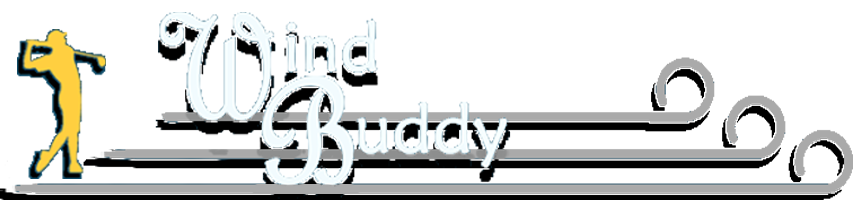
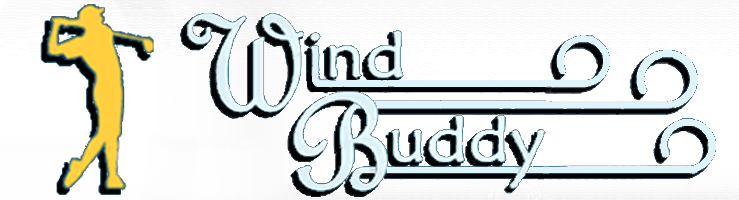
Add files via upload

diff --git a/styles.css b/styles.css
@@ -54,9 +54,9 @@ body{
 }
 
 .header-bar {
-	width: 61%;
+	width: 100%;
 	max-height: 10vh;
-	display: flex;
+	display: -webkit-box;
 	flex-direction: row;
 	justify-content: end;
 	margin-bottom: 2.0vh;
@@ -64,22 +64,17 @@ body{
 }
 
 .img {
-	display:flex;
-	width: 75%;
-	justify-content:end;
-	align-items:center;
+	max-height: -webkit-fill-available;
+	justify-self: center;
 }
 
-.hdrBarImg{
-	height:150%;
-}
 
 
 /* AUTH BUTTONS (HEADER) */
 .authContainer {
 	position: relative;
 	top:0px;
-	left: 0.625rem;
+	left: -3.975rem;
 	display:flex;
 	width: 25%;
 	justify-content: flex-end;
@@ -309,8 +304,8 @@ header{
 	gap: 0.7rem;
 	padding-bottom: 0.375rem;
 	justify-self: center;
-	width: 95%;
-	justify-content: center;
+	/* width: 100%; */
+	justify-content: space-evenly;
 }
 
 .category-container {
@@ -318,8 +313,8 @@ header{
 	flex-direction: column;
 	gap:0.25rem;
 	align-items: center;
-	height: 100%;
-	min-width: 9vw;
+	/* height: 100%; */
+	min-width: 8.9vw;
 }
 
 .category-header{
@@ -339,8 +334,7 @@ header{
     padding: 2px;
     background: var(--clubCardBG);
     display: flex;
-    width: 100%;
-    height: 90%;
+    width: -webkit-fill-available;
 }
 
 .category h4 {
@@ -421,7 +415,7 @@ header{
 	flex-wrap: wrap;
 	gap: 0.625rem;
 	width:100%;
-	justify-content: center;
+	justify-content: space-evenly;
 	margin-bottom: 1vh;
 	max-height: var(--mainPanelsHeight);
 }
@@ -429,8 +423,9 @@ header{
 .rightMainPanels, .leftMainPanels{
 	display:flex;
 	flex-direction:row;
-	gap:0.625rem; 
-	height:100%;
+	gap:01.225rem;
+	/* height:100%; */
+	justify-content: space-evenly;
 }
 
 
@@ -439,7 +434,7 @@ header{
 /* <!-- _______________________________________________________________________________ --> */
 .bagsPanel{
 	width:auto;
-	height:100%;
+	/* height:100%; */
 	display:flex;
 	flex-direction:column;
 	background:var(--card);
@@ -539,7 +534,7 @@ header{
 /* <!-- ___________________________________________________________________________ --> */
 .toolsPanel{
 	min-width: 9vw;
-	height: 100%;
+	/* height: 100%; */
 	display: flex;
 	flex-direction: column;
 	background: var(--card);
@@ -651,7 +646,7 @@ tool-row{
 
 .clubInfoPanel{
 	min-width:12.5rem;
-	height:100%;
+	/* height:100%; */
 	display:flex;
 	flex-direction:column;
 	background:var(--card);
@@ -708,7 +703,7 @@ tool-row{
 	flex-direction:column;
 	background:var(--card);
 	align-items:center;
-	height:100%;
+	/* height:100%; */
 	border-radius:0.5rem;
 	border:0.0625rem solid var(--border);
 	row-gap:1vh;
@@ -764,7 +759,7 @@ input[type=range]{
 /* wrapper must be positioned so tooltip can be absolutely positioned relative to it */
 .tooltip-wrapper {
 	position: relative;
-	display: inline-block; /* or block per layout */
+	display: contents; /* or block per layout */
 }
 
 /* style the input as you already have */
@@ -833,7 +828,7 @@ input[type=number] { -moz-appearance: textfield; }
 	background:var(--card);
 	border-radius:0.5rem;
 	max-width:12.5rem;
-	height:100%;
+	/* height:100%; */
 	text-align:center;
 	border:0.0625rem solid var(--border);
 	padding-bottom:1vh;
@@ -881,6 +876,7 @@ input[type=number] { -moz-appearance: textfield; }
 	gap:0.5rem;
 	flex-wrap:wrap;
 	margin-top: 1vh;
+	max-width: 100%;
 }
 .shortcut-btn{
 	border:0.0625rem solid var(--border);
@@ -1060,15 +1056,16 @@ footer{
 	border-color: #111;
 }
 
-
+.info-icon{
+	height:clamp(20px,1.25rem,30px);  
+	width:auto;
+}
 
 .show {
 	/* .toast.show { */
 	opacity:1;
 	transform: translateY(0);
 }
-
-
 
 /* Visibility classes */
 .hidden {

diff --git a/index.html b/index.html
@@ -1,3 +1,4 @@
+<!-- To do:  -->
 <!-- 2. about, contact, ect pages -->
 <!-- 3. Endbringer mode needs to scan through saved bags to determine the user's level (default to level 5 if not found) -->
 <!-- 4. golf bag hover tooltips that display the clubs and levels saved in that bag -->
@@ -15,14 +16,9 @@
   <div class="app">
 
 	<div class="header-bar">
-	  <div class = "img">
-		<img class="hdrBarImg" src="3_in_1.png">
-		<!-- <img style="" src="WindBuddy-shadow-text.png">
-		<img style="" src="wind-symbol.png"> -->
-	  </div>
-		
+		<img class="img" src="3_in_1.png">
 		<div class="authContainer">
-			<div id="authBar">
+			<div id="authColumn" style="display:content">
 				<button id="loginBtn" class="auth-btn">Sign In</button>
 				<div id="accountMenuContainer" style="display:none;">
 					<div id="accountMenuTrigger" class="account-trigger">
@@ -38,7 +34,6 @@
 				</div>
 
 			</div>
-			<div id='toast-container'></div>
 		</div>
 	</div>
 
@@ -66,8 +61,6 @@
 		</div>
 	</div>
 
-
-
 			<!-- CATEGORY/SHOW CLUBS TOGGLE WRAPPER -->
     <div class="clubs-wrap">
     	<div class="clubs-top">
@@ -79,9 +72,6 @@
         	<!-- categories created by JS -->
 	    </div>
     </div>
-
-
-
 
 
 		<!-- MAIN CONTROL ROW -->
@@ -123,7 +113,7 @@
         		<h4>
 					<div style="width: 100%;">TOOLS</div>
 					<div class="tooltip-wrapper" style="height: var(--mainPanelsHdrHeight);">
-						<img src="info_icon.png" style="height: 75%; width:auto;margin-left: auto;margin-right: 1vw; margin-top:3px;" id="tools-info-btn">	
+						<img src="info_icon.png" class="info-icon" style="margin-right:0.75rem;" id="tools-info-btn">	
 						<div class="input-tooltip toolsPanelInfoIcon" role="status" aria-hidden="true">
 						  Click here for more info about the Tools Panel.
 						</div>
@@ -214,12 +204,13 @@
 
   		<!-- SHORTCUT BUTTONS -->
   	<div class="shortcut-bar" id="shortcutBar">
-	<div class="tooltip-wrapper" style="height: var(--mainPanelsHdrHeight);">
-		<img src="info_icon.png" style="height: 75%; width:auto;margin-right: 3px;" id="sc-info-btn">	
-		<div class="input-tooltip" role="status" aria-hidden="true">
-		  Click here for more info about the Shortcut Buttons.
+		<div class="tooltip-wrapper" style="height: var(--mainPanelsHdrHeight);">
+			<img src="info_icon.png" class="info-icon" style="margin-right: 3px;" id="sc-info-btn">	
+			<div class="input-tooltip" role="status" aria-hidden="true">
+			Click here for more info about the Shortcut Buttons.
+			</div>
 		</div>
-	</div>
+		
 	</div>
 
 
